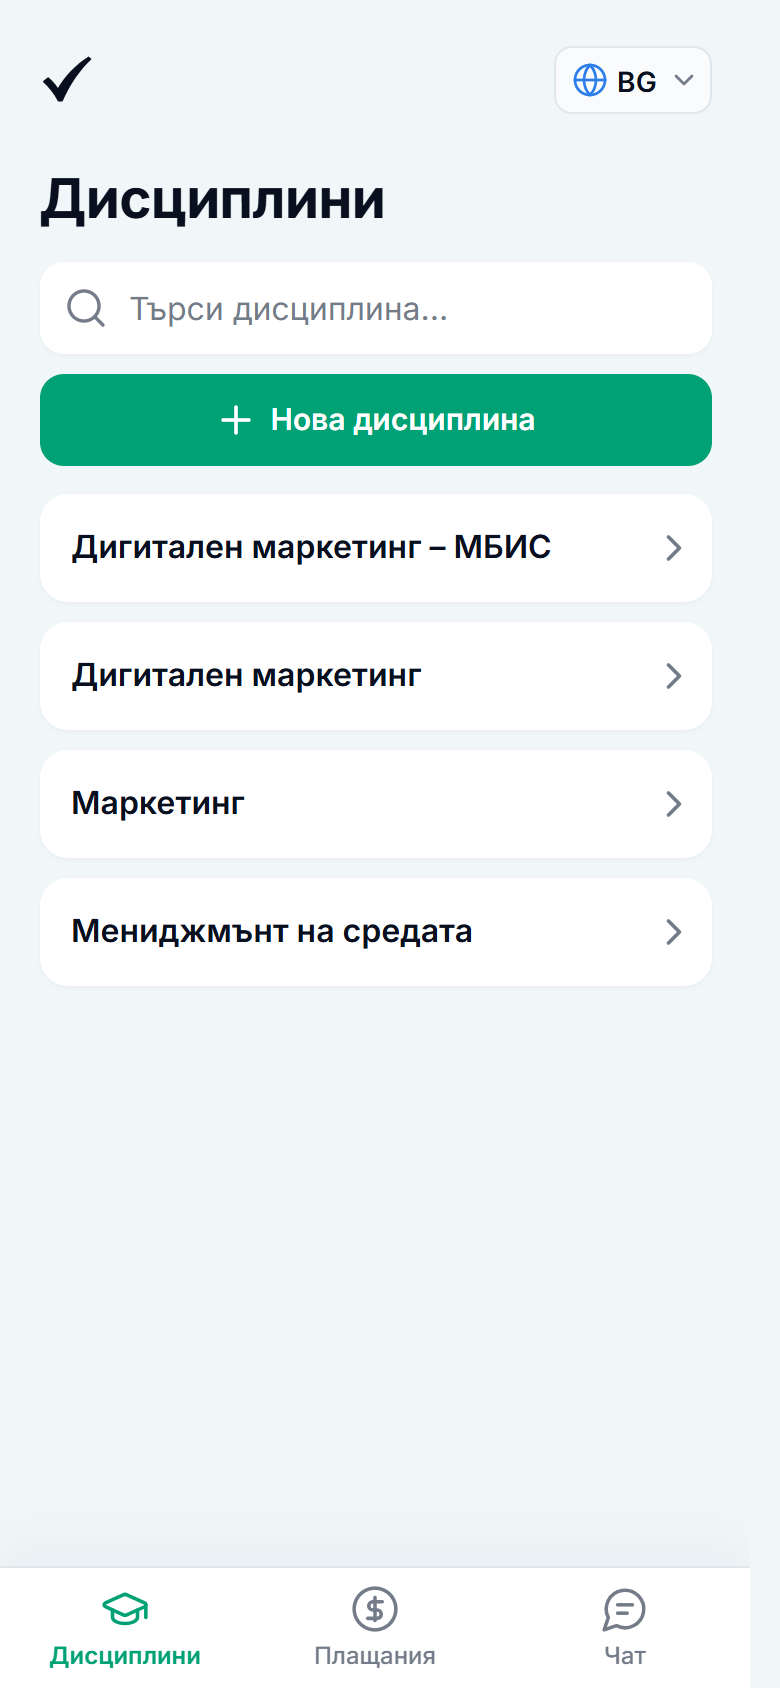
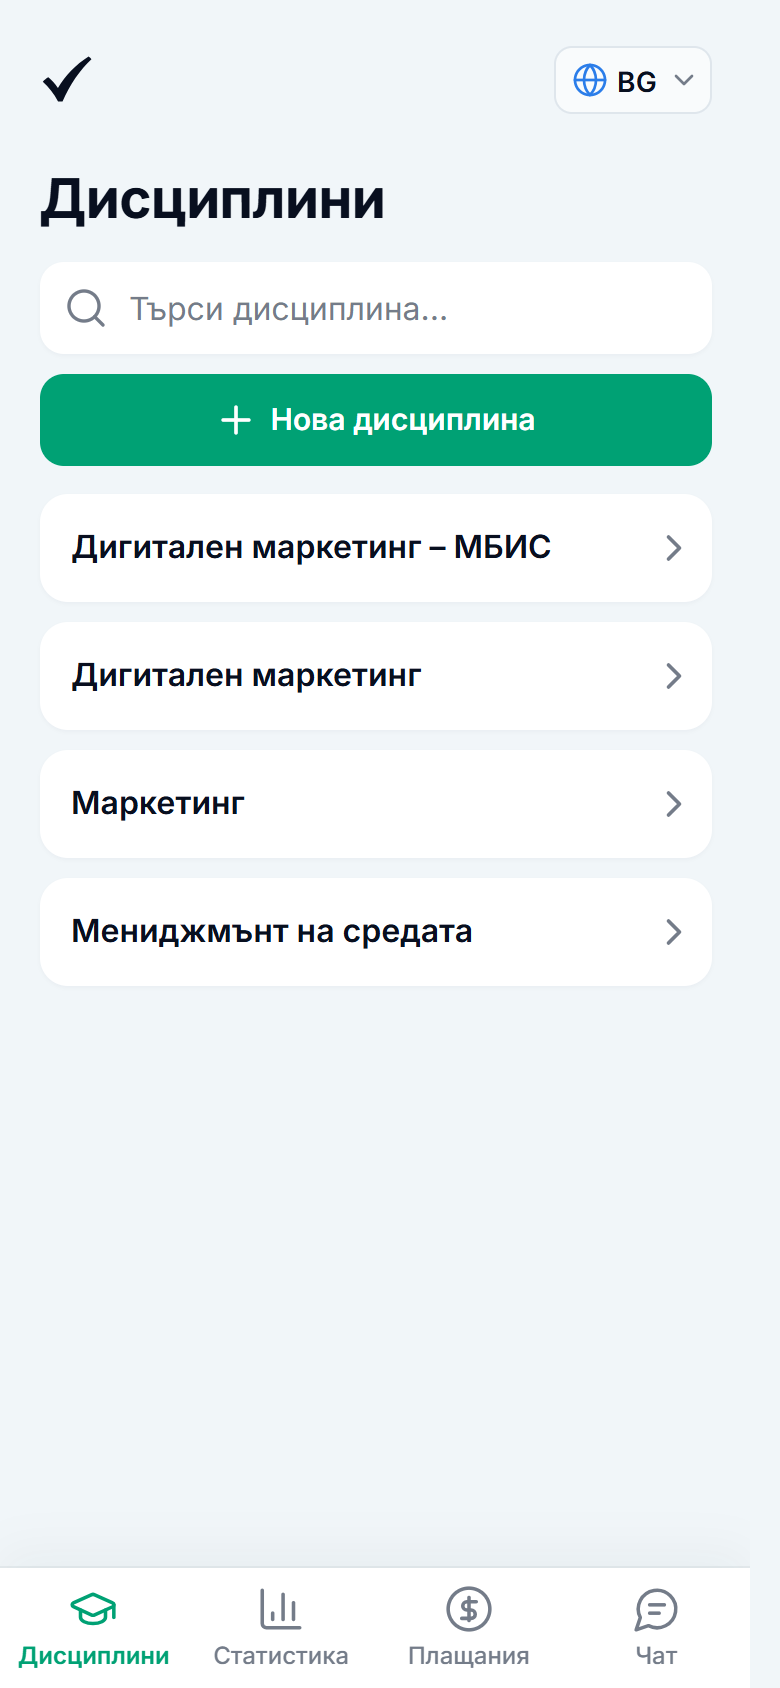
README: add the Statistics view, refresh screenshots
Adds a Statistics section and screenshot, mentions the four sidebar items,
and regenerates the teacher screenshots so they show the new navigation.

Claude-Session: https://claude.ai/code/session_01MKJGcYVfibyUPzcHPYCP2N

Changed region(s): [[0.2769, 0.9242, 0.6769, 0.9858], [0.0308, 0.9242, 0.2462, 0.9858], [0.7692, 0.9242, 0.8615, 0.9858]]

diff --git a/README.md b/README.md
@@ -26,8 +26,9 @@ visible and the button shows its progress.
 ![Teacher disciplines list](docs/screenshots/teacher-disciplines.png)
 
 The teacher's home: every discipline as a card, with search and a
-"Нова дисциплина" button that opens the creation wizard. Navigation (sidebar on
-desktop) and the language selector stay in place while moving between sections.
+"Нова дисциплина" button that opens the creation wizard. The sidebar (Дисциплини,
+Статистика, Плащания, Чат) and the language selector stay in place while moving
+between sections.
 
 ### Teacher – Discipline menu
 
@@ -36,6 +37,15 @@ desktop) and the language selector stay in place while moving between sections.
 Clicking a discipline opens its menu: manage the enrolled students, start the
 QR scanner, download the attendance table (.xlsx) or open the discipline's
 options (rename / delete).
+
+### Teacher – Statistics (Статистика)
+
+![Statistics view](docs/screenshots/teacher-statistics.png)
+
+An overview across all disciplines: how many disciplines, students and lessons
+there are and the average attendance. Below, each discipline with its number of
+students and lessons, its average attendance, and how many students are under
+50% attendance.
 
 ### Teacher – Payments (Плащания)
 
